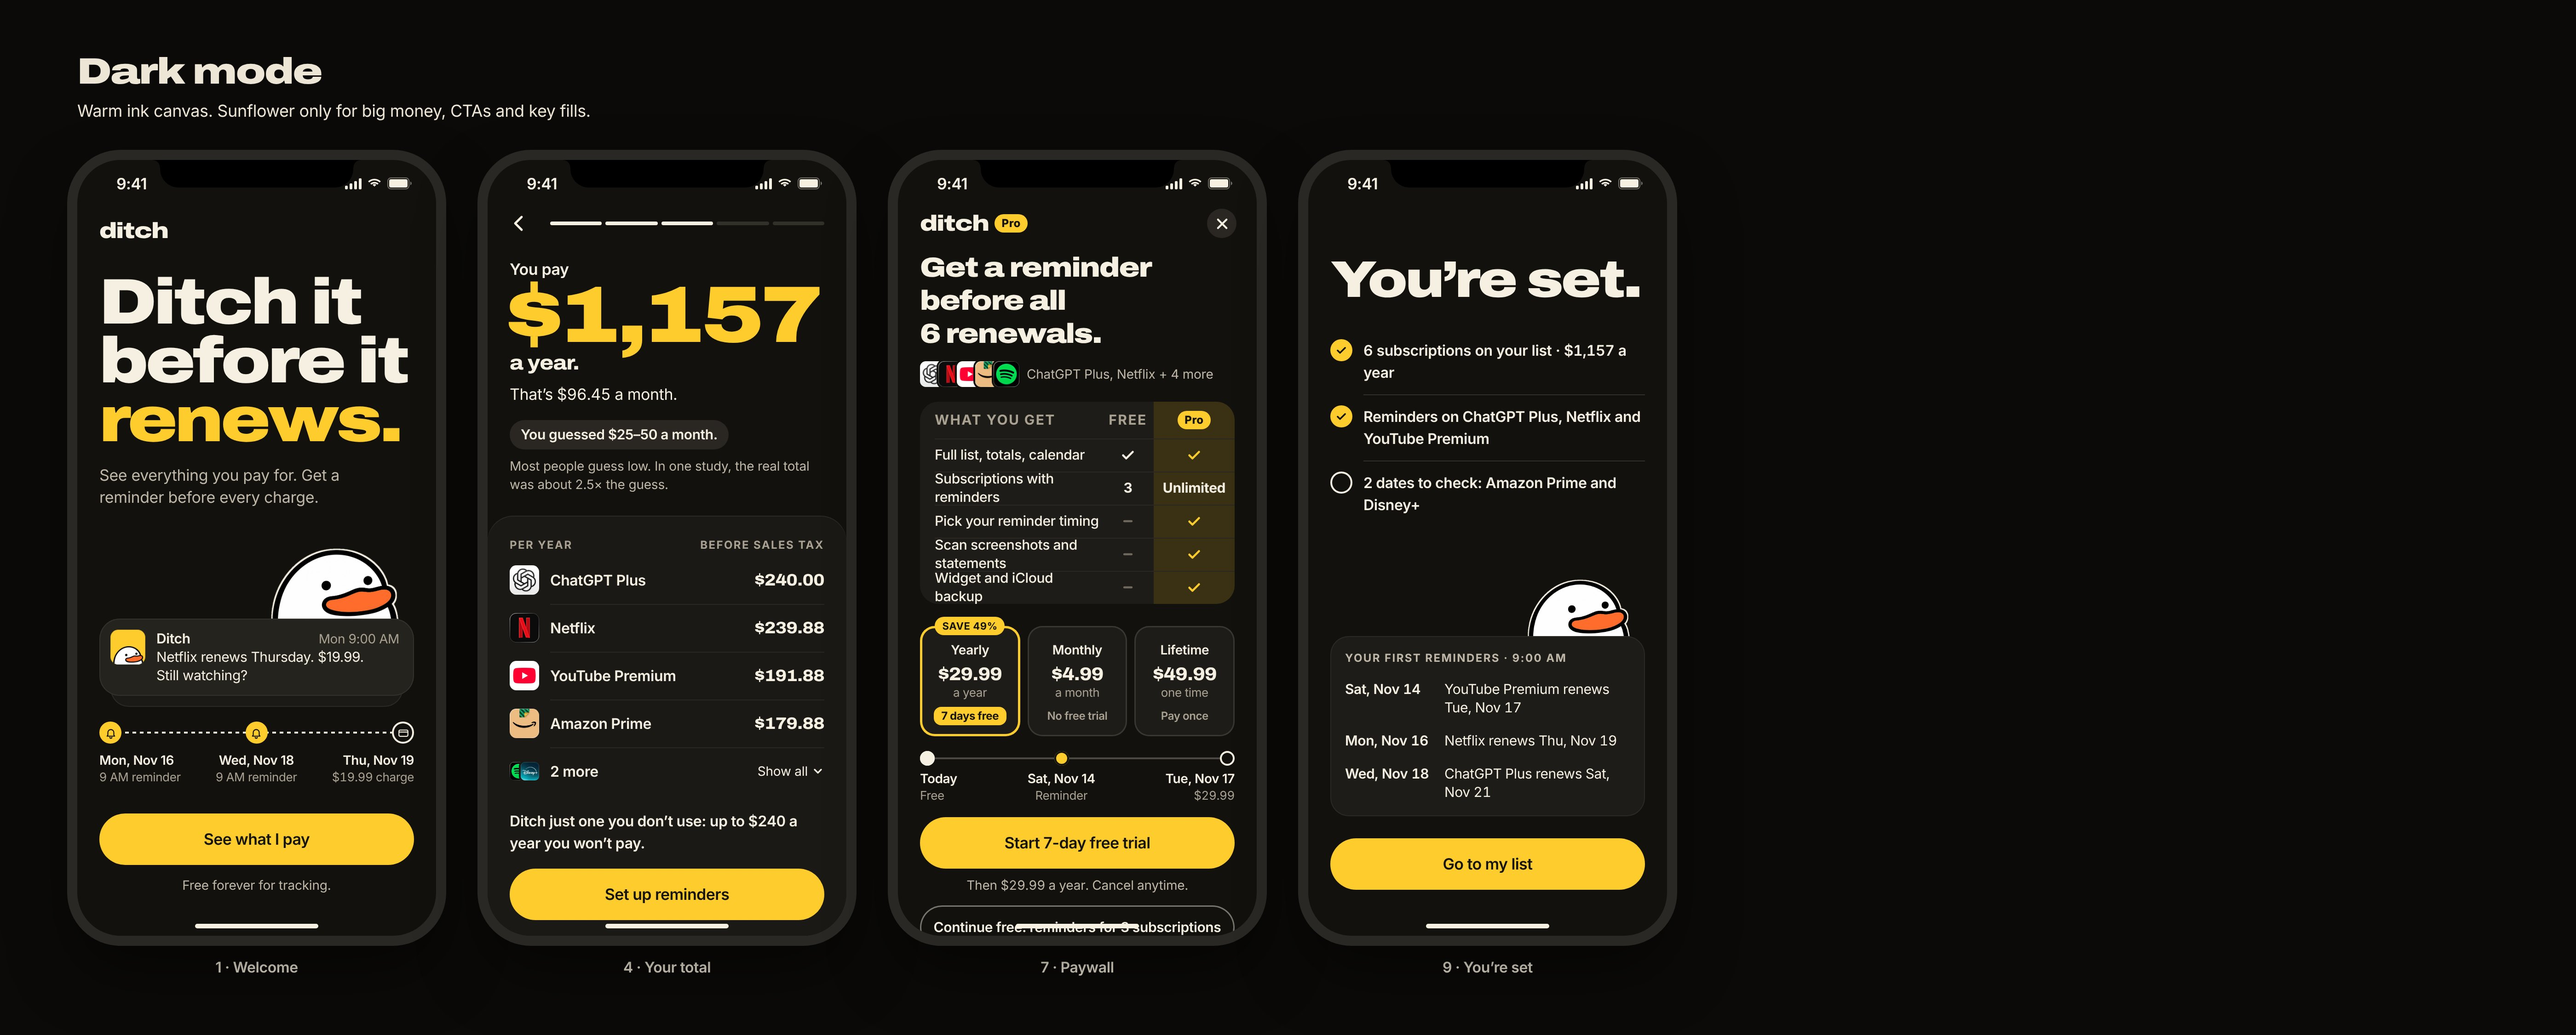
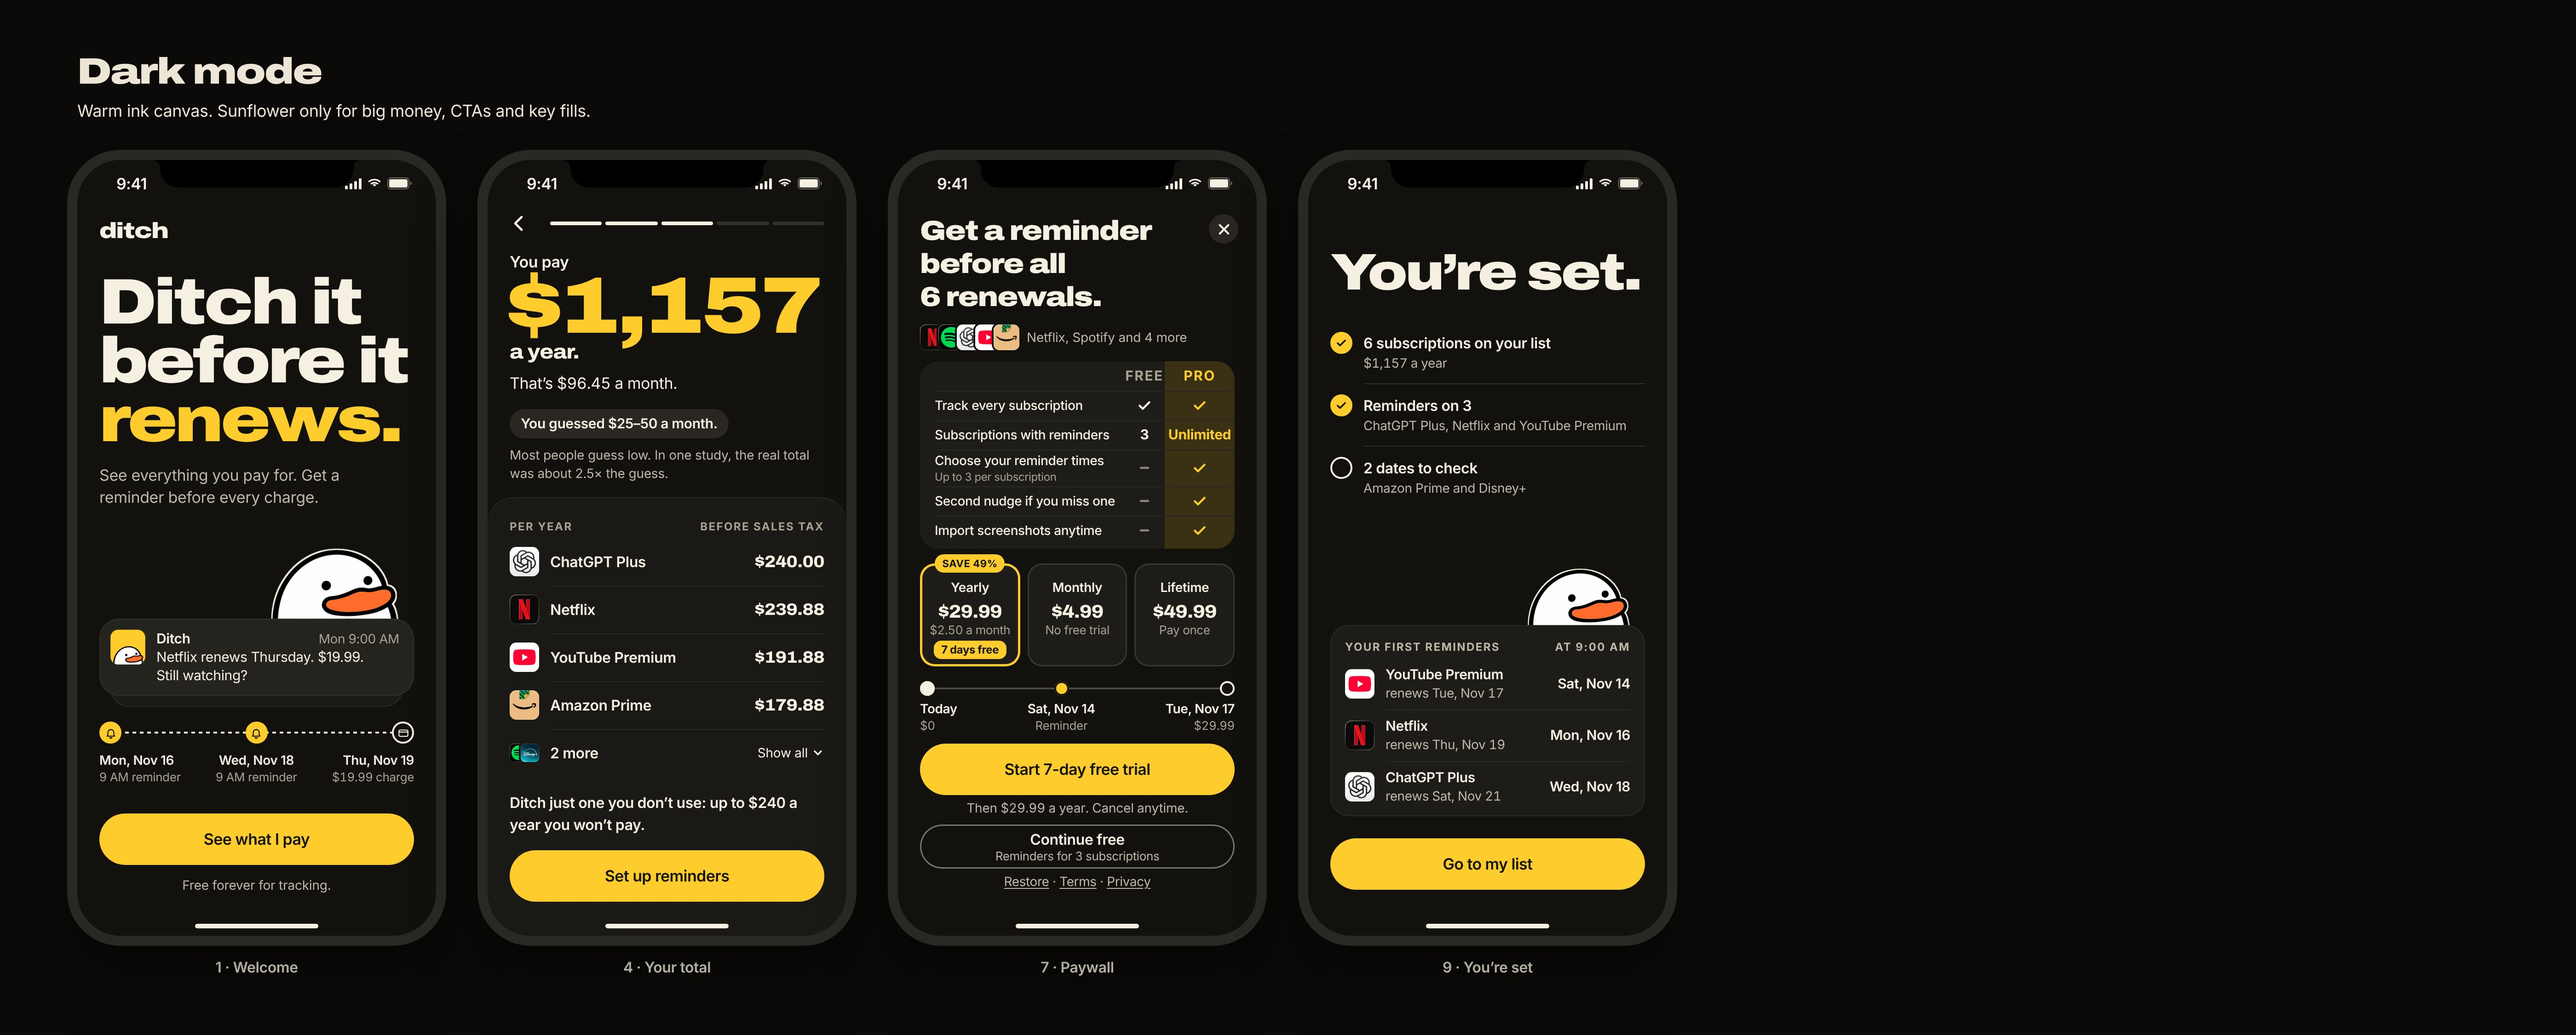
WIP: v11 onboarding mockups (in progress)
Claude-Session: https://claude.ai/code/session_01Q8GFjWCZXwnj2nAcxjTkxh

diff --git a/design/v11/screens.html b/design/v11/screens.html
@@ -138,7 +138,7 @@ section.darksec .sh h2,section.darksec .sh p,section.darksec .cap{color:#EDE6D6}
 .ptable{border-radius:20px;background:var(--card);color:var(--cardfg);position:relative;overflow:hidden}
 .ptable .tr{display:flex;align-items:center;position:relative}
 .ptable .tr+.tr:before{content:"";position:absolute;top:0;left:16px;right:0;height:1px;background:var(--hair)}
-.ptable .f{flex:1;min-width:0;padding-left:16px;font-size:14px;line-height:20px;font-weight:500;white-space:nowrap}
+.ptable .f{flex:1;min-width:0;padding-left:16px;padding-right:4px;font-size:14px;line-height:20px;font-weight:500;white-space:nowrap}
 .ptable .c{text-align:center;display:flex;align-items:center;justify-content:center;flex:none;font:700 15px/20px Inter}
 .ptable .procol{position:absolute;top:0;bottom:0;right:0;background:#FFE58F}
 .dark .ptable .procol{background:#3A3115}
@@ -447,52 +447,64 @@ S.datesDay = (c) => {
 // SE variant: the day cells are 44pt tall to fit without scrolling
 const seGrid = (html) => html.replace('class="dgrid"', 'class="dgrid se44"');
 
-// 07 · Paywall (layout A). Copy pending the wording-research job.
-S.paywall = (c) => {
+// 07 · Paywall (layout A). Final copy from docs/research/paywall-wording.md (owner approval pending).
+S.paywall = (c, plan = 'yearly') => {
   const d = c.d, se = c.dev === 'se', ipad = c.dev === 'ipad';
   const rh = se ? 28 : 32;
-  const colF = se ? 40 : 44, colP = se ? 72 : 76;
-  const rowsT = se
-    ? [['List, totals, calendar', 'ck', 'ck'], ['Subscriptions with reminders', '3', 'Unlimited'], ['Timing, import, widget, backup', '-', 'ck']]
-    : [['List, totals, calendar', 'ck', 'ck'], ['Subscriptions with reminders', '3', 'Unlimited'], ['Pick your reminder timing', '-', 'ck'], ['Scan screenshots and PDFs', '-', 'ck'], ['Widget and iCloud backup', '-', 'ck']];
+  const colF = se ? 40 : 44, colP = se ? 68 : 76;
+  const lp = se ? 12 : 16;
+  const rowsT = [
+    ['Track every subscription', 'ck', 'ck'],
+    ['Subscriptions with reminders', '3', 'Unlimited'],
+    ['Choose your reminder times', '-', 'ck', se ? '' : 'Up to 3 per subscription'],
+    ['Second nudge if you miss one', '-', 'ck'],
+    ['Import screenshots anytime', '-', 'ck'],
+  ];
   const ink = d ? '#F6F0E3' : '#16140F';
   const cell = (v, pro) => v === 'ck' ? ck(pro && d ? '#FFCC2E' : ink, 18) : v === '-' ? dash(d ? '#8E877A' : '#8C8576') : `<span class="num"${pro && d ? ' style="color:#FFCC2E"' : ''}>${v}</span>`;
   const table = `<div class="ptable" style="flex:none">
     <div class="procol" style="width:${colP}px"></div>
-    <div class="tr" style="height:${se ? 28 : 36}px"><span class="f eyebrow" style="font-weight:700;color:var(--mute);padding-left:${se ? 12 : 16}px">What you get</span><span class="c eyebrow" style="width:${colF}px;color:var(--mute)">Free</span><span class="c eyebrow" style="width:${colP}px;color:${d ? '#FFCC2E' : '#16140F'}">Pro</span></div>
-    ${rowsT.map((r) => `<div class="tr" style="height:${rh}px"><span class="f" style="padding-left:${se ? 12 : 16}px">${r[0]}</span><span class="c" style="width:${colF}px">${cell(r[1])}</span><span class="c" style="width:${colP}px">${cell(r[2], 1)}</span></div>`).join('')}
+    <div class="tr" style="height:${se ? 24 : 32}px"><span class="f" style="padding-left:${lp}px"></span><span class="c eyebrow" style="width:${colF}px;color:var(--mute)">Free</span><span class="c eyebrow" style="width:${colP}px;color:${d ? '#FFCC2E' : '#16140F'}">Pro</span></div>
+    ${rowsT.map((r) => `<div class="tr" style="height:${r[3] ? 40 : rh}px"><span class="f" style="padding-left:${lp}px">${r[0]}${r[3] ? `<span style="display:block;font:400 12px/16px Inter;color:var(--mute)">${r[3]}</span>` : ''}</span><span class="c" style="width:${colF}px">${cell(r[1])}</span><span class="c" style="width:${colP}px">${cell(r[2], 1)}</span></div>`).join('')}
     <div style="height:4px"></div>
   </div>`;
-  const tiles = `<div style="display:flex;gap:8px;flex:none;margin-top:${se ? 16 : 24}px">
-    <div class="tile on"><span class="tab">SAVE 49%</span><span class="tn">Yearly</span><span class="tp num">$29.99</span><span class="tu">a year</span><span class="tf"><span class="tag">7 days free</span></span></div>
-    <div class="tile"><span class="tn">Monthly</span><span class="tp num">$4.99</span><span class="tu">a month</span><span class="tf">No free trial</span></div>
-    <div class="tile"><span class="tn">Lifetime</span><span class="tp num">$49.99</span><span class="tu">one time</span><span class="tf">Pay once</span></div>
+  const on = (p) => (plan === p ? ' on' : '');
+  const tiles = `<div style="display:flex;gap:8px;flex:none;margin-top:16px">
+    <div class="tile${on('yearly')}"><span class="tab">SAVE 49%</span><span class="tn">Yearly</span><span class="tp num">$29.99</span><span class="tu num">$2.50 a month</span><span class="tf"><span class="tag">7 days free</span></span></div>
+    <div class="tile${on('monthly')}"><span class="tn">Monthly</span><span class="tp num">$4.99</span><span class="tu">No free trial</span></div>
+    <div class="tile${on('lifetime')}"><span class="tn">Lifetime</span><span class="tp num">$49.99</span><span class="tu">Pay once</span></div>
   </div>`;
-  const strip = `<div class="trial" style="margin-top:${se ? 12 : 16}px;flex:none">
+  const stripH = se ? 56 : 60;
+  const strip = plan === 'yearly'
+    ? `<div class="trial" style="height:${stripH}px">
     <div class="ln"></div>
-    <div class="s"><span class="dt f"></span><b>Today</b><small>Free</small></div>
+    <div class="s"><span class="dt f"></span><b>Today</b><small class="num">$0</small></div>
     <div class="s"><span class="dt y"></span><b>Sat, Nov 14</b><small>Reminder</small></div>
     <div class="s"><span class="dt"></span><b>Tue, Nov 17</b><small class="num">$29.99</small></div>
-  </div>`;
+  </div>`
+    : `<p class="sub" data-orphan style="height:${stripH}px;color:var(--fg2);${se ? 'font-size:13px;line-height:18px' : ''}">${plan === 'lifetime' ? 'Everything in Pro, forever. Bank sync, if we add it, is a separate plan because it costs us money every' + NB + 'month.' : 'No free trial. You pay $4.99 today, then every' + NB + 'month.'}</p>`;
+  const ctaT = { yearly: 'Start 7-day free trial', monthly: 'Subscribe for $4.99 a month', lifetime: 'Pay $49.99 once' }[plan];
+  const fineT = { yearly: 'Then $29.99 a year. Cancel anytime.', monthly: 'Renews every month. Cancel anytime.', lifetime: 'One payment. No renewals.' }[plan];
+  const order = ['netflix', 'spotify', 'chatgpt', 'youtube', 'amazon'];
   const logos = `<div style="display:flex;align-items:center;gap:8px;margin-top:${se ? 8 : 12}px;flex:none">
-    <span class="stack">${ORDER.slice(0, 5).map((k) => logo(SUBS[k][0], se ? 24 : 28)).join('')}</span>
-    <span class="sub nw" style="color:var(--fg2)">ChatGPT Plus, Netflix + 4 more</span></div>`;
+    <span class="stack">${order.map((k) => logo(SUBS[k][0], se ? 24 : 28)).join('')}</span>
+    <span class="sub nw" style="color:var(--fg2)">Netflix, Spotify and 4 more</span></div>`;
   return [d ? 'dark' : 'cream', `
 <div class="scr" style="${scrStyle(c, 440, se ? 8 : 16)}">
-  <div style="display:flex;align-items:flex-start;gap:8px;flex:none;margin-top:${se ? 8 : ipad ? 48 : 12}px">
+  <div style="display:flex;align-items:flex-start;gap:8px;flex:none;margin-top:${se ? 4 : ipad ? 48 : 12}px">
     <h1 class="title" data-orphan style="flex:1;${se ? 'font-size:26px;line-height:32px;letter-spacing:-.8px' : ''}">Get a reminder before all 6${NB}renewals.</h1>
     <div class="xbtn" style="margin:-6px -10px 0 0" aria-label="Close, continue free"><i>${xI(ink)}</i></div>
   </div>
   ${logos}
-  <div style="flex:none;height:${se ? 12 : ipad ? 32 : 16}px"></div>
+  <div style="flex:none;height:${se ? 12 : ipad ? 32 : 12}px"></div>
   ${table}
   ${tiles}
-  ${strip}
-  <div style="flex:1;min-height:${se ? 8 : 12}px"></div>
-  <button class="cta"${se ? ' style="height:52px"' : ''}>Start 7-day free trial</button>
-  <p class="sub num" style="text-align:center;margin-top:4px;color:var(--fg2)">Then $29.99 a year. Cancel anytime.</p>
-  <button class="sec" style="margin-top:${se ? 4 : 8}px;${se ? 'height:44px;font-size:14px' : 'font-size:15px'}">Continue free: reminders for 3${NB}subscriptions</button>
-  <p class="links" style="margin-top:${se ? 0 : 4}px;line-height:${se ? 20 : 24}px"><u>Restore</u> · <u>Terms</u> · <u>Privacy</u></p>
+  <div style="margin-top:${se ? 12 : 16}px;flex:none">${strip}</div>
+  <div style="flex:1;min-height:${se ? 4 : 8}px"></div>
+  <button class="cta"${se ? ' style="height:52px"' : ''}>${ctaT}</button>
+  <p class="sub num" style="text-align:center;margin-top:4px;color:var(--fg2)">${fineT}</p>
+  <button class="sec" style="margin-top:8px;height:${se ? 44 : 48}px;flex-direction:column;gap:0">Continue free<span style="font:400 13px/16px Inter;color:var(--fg2)">Reminders for 3 subscriptions</span></button>
+  <p class="links" style="margin-top:4px"><u>Restore</u> · <u>Terms</u> · <u>Privacy</u></p>
 </div>`];
 };
 
@@ -519,7 +531,7 @@ S.which3 = (c) => {
 </div>`];
 };
 
-// 09 · You're set
+// 09 · You're set. "Almost set." when reminders were skipped.
 S.set = (c, off) => {
   const d = c.d, se = c.dev === 'se', ipad = c.dev === 'ipad';
   const ink = d ? '#F6F0E3' : '#16140F';
@@ -527,29 +539,29 @@ S.set = (c, off) => {
   const todoI = `<span class="ic" style="box-shadow:inset 0 0 0 2px ${ink}"></span>`;
   const warnI = `<span class="ic" style="background:#FF6C2C;color:#16140F;font:900 15px/1 Inter">!</span>`;
   const items = [
-    [okI, '<span class="num">6 subscriptions on your list · $1,157 a year</span>'],
-    off ? [warnI, 'Reminders are off. Nothing can reach you yet.'] : [okI, `Reminders on ChatGPT Plus, Netflix and YouTube${NB}Premium`],
-    [todoI, '2 dates to check: Amazon Prime and Disney+'],
+    [okI, '6 subscriptions on your list', '<span class="num">$1,157 a year</span>'],
+    off ? [warnI, 'Reminders are off', 'Nothing can reach you until you turn them on.'] : [okI, 'Reminders on 3', 'ChatGPT Plus, Netflix and YouTube Premium'],
+    [todoI, '2 dates to check', 'Amazon Prime and Disney+'],
   ];
-  const firsts = [['Sat, Nov 14', 'YouTube Premium renews Tue, Nov 17'], ['Mon, Nov 16', 'Netflix renews Thu, Nov 19'], ['Wed, Nov 18', 'ChatGPT Plus renews Sat, Nov 21']];
-  const noteBg = d ? '#1E1C18' : 'rgba(255,255,255,.72)';
+  const firsts = [['youtube-premium', 'YouTube Premium', 'Tue, Nov 17', 'Sat, Nov 14'], ['netflix', 'Netflix', 'Thu, Nov 19', 'Mon, Nov 16'], ['chatgpt-plus', 'ChatGPT Plus', 'Sat, Nov 21', 'Wed, Nov 18']];
+  const cardBg = d ? '#1E1C18' : 'rgba(255,255,255,.72)';
+  const sub2 = d ? '#BFB7A7' : '#4B4220';
+  const firstCard = `<div style="position:relative;border-radius:20px;padding:16px 16px 4px;background:${cardBg};${d ? 'box-shadow:inset 0 0 0 1px #2C2924' : ''}">
+      <div class="eyebrow" style="display:flex;justify-content:space-between;color:${sub2}"><span>${off ? 'Waiting for your OK' : 'Your first reminders'}</span><span>At 9:00 AM</span></div>
+      <div style="margin-top:4px">${firsts.map((f, i) => `<div style="display:flex;align-items:center;gap:12px;min-height:56px;position:relative">${i ? `<i style="position:absolute;top:0;left:44px;right:0;height:1px;background:${d ? '#2B2823' : 'rgba(22,20,15,.1)'}"></i>` : ''}${logo(f[0], 32)}<div style="flex:1;min-width:0"><div class="label">${f[1]}</div><div class="num" style="font-size:14px;line-height:20px;color:${sub2}">renews ${f[2]}</div></div><b class="num" style="font:600 15px/20px Inter;white-space:nowrap">${f[3]}</b></div>`).join('')}</div>
+    </div>`;
   return [d ? 'dark' : 'sun', `
 <div class="scr" style="${scrStyle(c, ipad ? 480 : 512)}">
-  <div style="flex:none;height:${se ? 32 : ipad ? 96 : 56}px"></div>
-  <h1 class="disp" data-fit style="font-size:${ipad ? 80 : 60}px;line-height:${ipad ? 80 : 60}px;letter-spacing:-.04em;white-space:nowrap;align-self:flex-start">You’re set.</h1>
-  <div style="margin-top:${se ? 16 : 24}px;flex:none">
-    ${items.map((it) => `<div class="chk">${it[0]}<span class="bs" style="flex:1">${it[1]}</span></div>`).join('')}
+  <div style="flex:none;height:${se ? 24 : ipad ? 96 : 48}px"></div>
+  <h1 class="disp" data-fit style="font-size:${ipad ? 80 : 60}px;line-height:${ipad ? 80 : 60}px;letter-spacing:-.04em;white-space:nowrap;align-self:flex-start">${off ? 'Almost set.' : 'You’re set.'}</h1>
+  <div style="margin-top:${se ? 12 : 24}px;flex:none">
+    ${items.map((it) => `<div class="chk">${it[0]}<div style="flex:1"><div class="bs">${it[1]}</div><div style="font-size:14px;line-height:20px;color:${sub2}">${it[2]}</div></div></div>`).join('')}
   </div>
   <div style="flex:1;min-height:${se ? 16 : 32}px"></div>
-  ${off
-    ? `<div style="border-radius:20px;padding:16px;background:${noteBg};flex:none${d ? ';box-shadow:inset 0 0 0 1px #2C2924' : ''}"><p class="body" style="color:var(--fg)">Your 3 reminders are ready. They need your OK to show up on your${NB}phone.</p></div>`
-    : `<div style="position:relative;flex:none">
-    ${se ? '' : duck(d, 112, 'right:16px;top:' + peekTop(d, 112, 4) + 'px')}
-    <div style="position:relative;border-radius:20px;padding:16px 16px 8px;background:${noteBg};${d ? 'box-shadow:inset 0 0 0 1px #2C2924' : ''}">
-      <div class="eyebrow" style="color:var(--fg2)">Your first reminders · 9:00 AM</div>
-      <div style="margin-top:8px">${firsts.map((f) => `<div style="display:flex;gap:12px;padding:8px 0;font-size:15px;line-height:20px" class="num"><b style="width:96px;flex:none;font-weight:600">${f[0]}</b><span style="flex:1">${f[1]}</span></div>`).join('')}</div>
-    </div>
-  </div>`}
+  <div style="position:relative;flex:none">
+    ${se || off ? '' : duck(d, 112, 'right:16px;top:' + peekTop(d, 112, 4) + 'px')}
+    ${firstCard}
+  </div>
   <div style="flex:none;height:24px"></div>
   ${off ? `<button class="cta">${bell(d ? '#16140F' : '#FFCC2E', 20)}Turn on reminders</button><button class="txtbtn" style="margin-top:4px">Go to my list</button>` : '<button class="cta">Go to my list</button>'}
 </div>`];
@@ -566,15 +578,16 @@ const L = [
   P('05-reminders', '5 · Reminders pre-ask', 'i12', S.notify),
   P('06a-dates-scan', '6a · Charge dates: scan first', 'i12', S.datesScan),
   P('06b-dates-day', '6b · Charge dates: one at a time', 'i12', S.datesDay),
-  P('07-paywall', '7 · Paywall (layout A, copy pending)', 'i12', S.paywall),
+  P('07-paywall', '7 · Paywall (layout A, Yearly picked)', 'i12', S.paywall),
+  P('07b-paywall-lifetime', '7b · Paywall, Lifetime picked', 'i12', (c) => S.paywall(c, 'lifetime')),
   P('08-which3', '8 · Which 3 (sheet from “Continue free”)', 'i12', S.which3),
   P('09-set', '9 · You’re set', 'i12', S.set),
-  P('09b-set-off', '9b · You’re set, reminders skipped', 'i12', (c) => S.set(c, true)),
+  P('09b-set-off', '9b · Almost set: reminders skipped', 'i12', (c) => S.set(c, true)),
 ];
 const SZ = [
   P('se-01-welcome', 'SE · Welcome', 'se', S.welcome), P('se-04-total', 'SE · Your total', 'se', S.total),
   P('se-06a-dates-scan', 'SE · Dates: scan', 'se', S.datesScan), P('se-06b-dates-day', 'SE · Dates: day', 'se', S.datesDay),
-  P('se-07-paywall', 'SE · Paywall', 'se', S.paywall),
+  P('se-07-paywall', 'SE · Paywall', 'se', S.paywall), P('se-07b-paywall-lifetime', 'SE · Paywall, Lifetime', 'se', (c) => S.paywall(c, 'lifetime')),
   P('ipad-01-welcome', 'iPad 11″ · Welcome', 'ipad', S.welcome), P('ipad-04-total', 'iPad 11″ · Your total', 'ipad', S.total),
   P('ipad-07-paywall', 'iPad 11″ · Paywall', 'ipad', S.paywall),
   P('ipad-06a-dates-scan', 'iPad 11″ · Dates: scan', 'ipad', S.datesScan), P('ipad-06b-dates-day', 'iPad 11″ · Dates: day', 'ipad', S.datesDay),

diff --git a/design/v11/shot.js b/design/v11/shot.js
@@ -54,10 +54,17 @@ const fs = require('fs');
         if (!inBackdrop) {
           if (r.left < R.left - .5 || r.right > R.right + .5) res.push(name + ' | OUTSIDE X | ' + el.textContent.trim().slice(0, 40));
           if (r.top < top - .5 && r.bottom > R.top) res.push(name + ' | UNDER STATUS BAR | ' + el.textContent.trim().slice(0, 40));
-          if (r.bottom > bot + .5 && r.top < R.bottom) res.push(name + ' | UNDER HOME INDICATOR / CUT | ' + el.textContent.trim().slice(0, 40));
+          if (r.bottom > bot + .5 && r.top < R.bottom && !el.closest('[data-scroll]')) res.push(name + ' | UNDER HOME INDICATOR / CUT | ' + el.textContent.trim().slice(0, 40));
           if (el.scrollWidth > el.clientWidth + 1 && cs.overflow !== 'visible') res.push(name + ' | TRUNCATED | ' + el.textContent.trim().slice(0, 40));
+          if (cs.display !== 'inline' && !el.hasAttribute('data-fit') && el.clientWidth > 0 && el.scrollWidth > el.clientWidth + 1) res.push(name + ' | OVERFLOWS ITS BOX | ' + el.textContent.trim().slice(0, 40));
+          // text must stay inside the screen's side edge (24pt, or the iPad column)
+          const scr = el.closest('.scr');
+          if (scr && !el.closest('.sheet') && !el.closest('[data-bleed]')) {
+            const sr = scr.getBoundingClientRect(), pl = parseFloat(getComputedStyle(scr).paddingLeft), pr = parseFloat(getComputedStyle(scr).paddingRight);
+            if (r.right > sr.right - pr + 1.5 || r.left < sr.left + pl - 4.5) res.push(name + ' | PAST SIDE EDGE | ' + el.textContent.trim().slice(0, 40));
+          }
           // clipped by an overflow:hidden ancestor
-          for (let a = el.parentElement; a && a !== ph; a = a.parentElement) {
+          if (!el.closest('[data-scroll]')) for (let a = el.parentElement; a && a !== ph; a = a.parentElement) {
             const acs = getComputedStyle(a);
             if (acs.overflow === 'hidden' && !a.classList.contains('lt')) {
               const ar = a.getBoundingClientRect();
